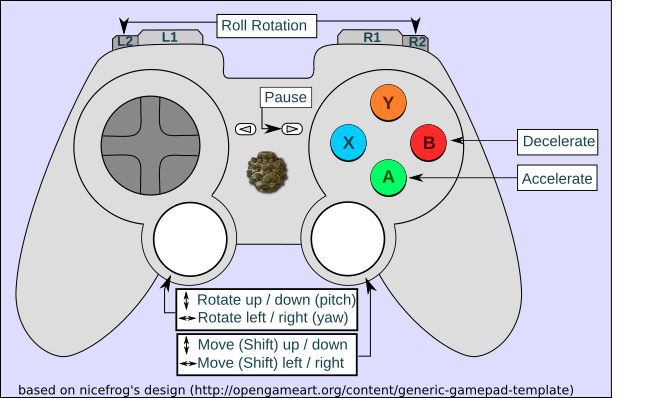
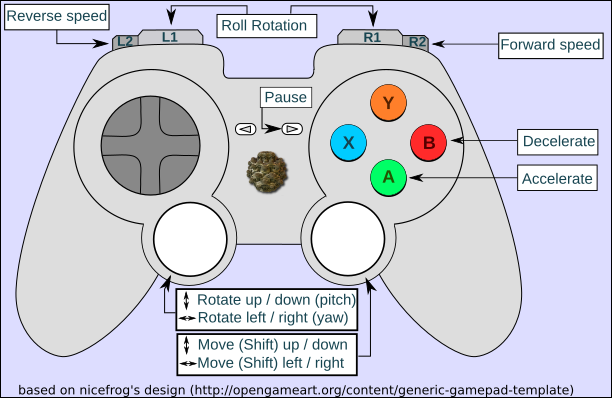
gamepad update
- gamepad keymap image updated with mancoast's suggestions
- made flight speed display negative speeds (now the ui is not so handy
anymore, nicer would be a double log box magnifying the range around 0)

diff --git a/mandelbulber2/src/initparameters.cpp b/mandelbulber2/src/initparameters.cpp
@@ -66,7 +66,7 @@ void InitParams(cParameterContainer *par)
 	par->addParam("flight_last_to_render", 1000, 0, 99999, morphNone, paramStandard);
 
 	par->addParam("frame_no", 0, 0, 99999, morphNone, paramOnlyForNet);
-	par->addParam("flight_speed", 0.01, 0.0, 100.0, morphLinear, paramStandard);
+	par->addParam("flight_speed", 0.01, -1000.0, 1000.0, morphLinear, paramStandard);
 	par->addParam("flight_inertia", 5.0, 0.01, 1000.0, morphLinear, paramStandard);
 	par->addParam("flight_speed_control", 0, morphNone, paramStandard);
 	par->addParam("flight_roll_speed", 10.0, morphNone, paramStandard);
